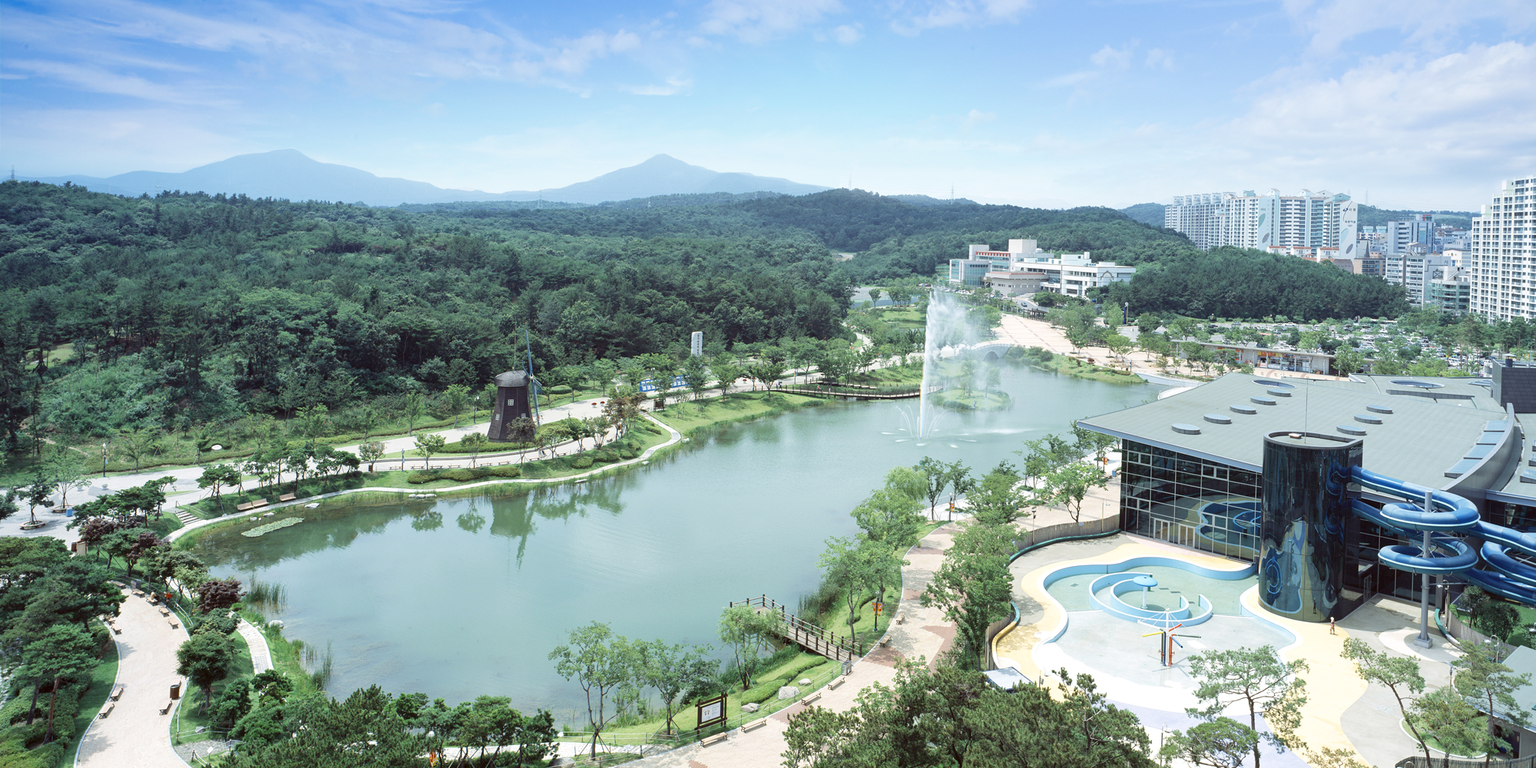
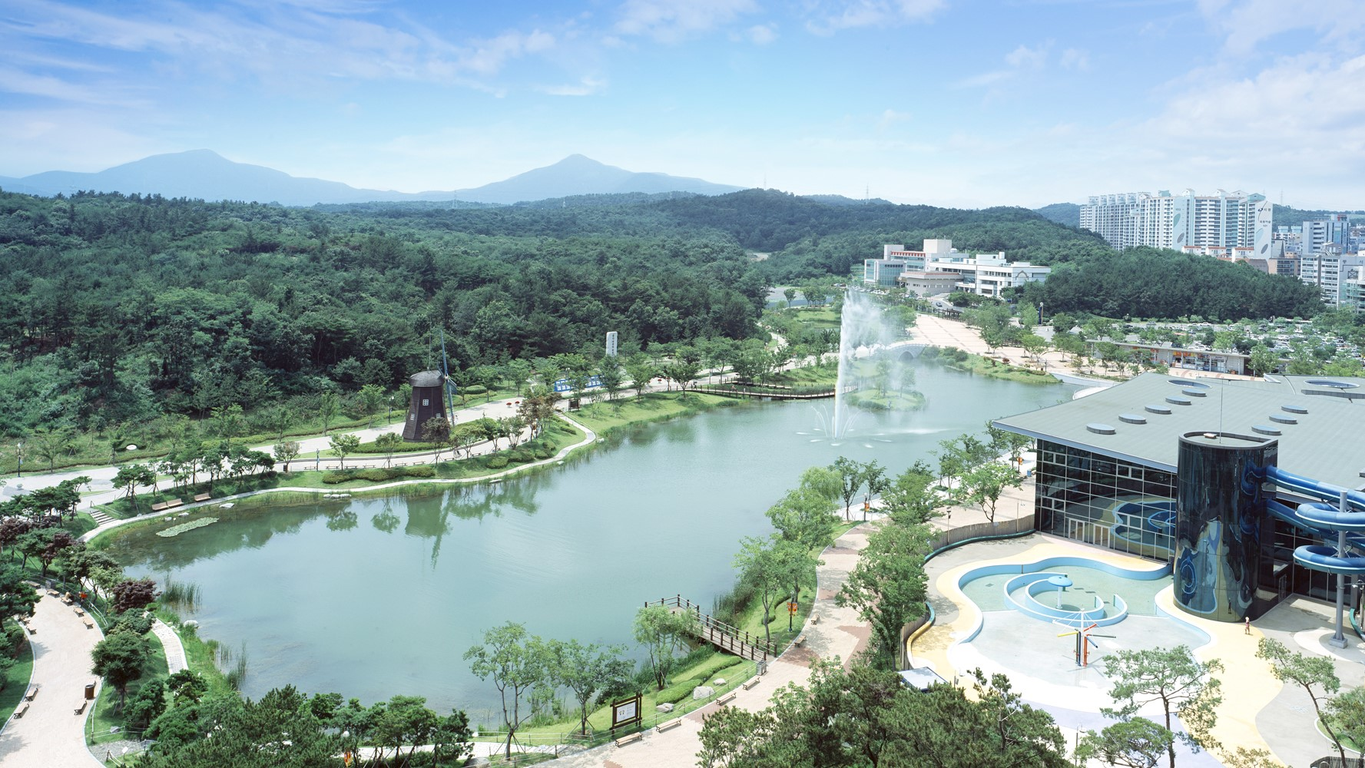
대공원 비주얼부분 수정

diff --git a/js/slide.js b/js/slide.js
@@ -1,66 +1,141 @@
 document.addEventListener("DOMContentLoaded", function(){
-    const windowcon = document.querySelector('.main-visual-box');
+    // const windowcon = document.querySelector('.main-visual-box');
     const slideList = document.querySelector('.main-visual-img-box');  // Slide parent dom
     const slideContents = document.querySelectorAll('.slide_content');  // each slide dom
     const slideBtnNext = document.querySelector('.control-wrap .next'); // next button
     const slideBtnPrev = document.querySelector('.control-wrap .prev'); // prev button
-    // const pagination = document.querySelector('.slide_pagination');
+    const pagination = document.querySelector('.slide_pagination');
     const slideLen = slideContents.length;  // slide length
-
-    // const slideWidth = 400; // slide width
-    // const slideSpeed = 300; // slide speed
-    // const startNum = 0; // initial slide index (0 ~ 4)
+    const slideWidth = 1800; // slide width
+    const slideSpeed = 300; // slide speed
+    const startNum = 0; // initial slide index (0 ~ 4)
       
-    // slideList.style.width = slideWidth * (slideLen + 2) + "px";
+    slideList.style.width = slideWidth * (slideLen + 2) + "px";
     
+    let firstChild = slideList.firstElementChild;
+    let lastChild = slideList.lastElementChild;
+    let clonedFirst = firstChild.cloneNode(true);
+    let clonedLast = lastChild.cloneNode(true);
 
-    // let firstChild = slideList.firstElementChild;
-    // let lastChild = slideList.lastElementChild;
-    // let clonedFirst = firstChild.cloneNode(true);
-    // let clonedLast = lastChild.cloneNode(true);
+    slideList.appendChild(clonedFirst);
+    slideList.insertBefore(clonedLast, slideList.firstElementChild);
 
-    // slideList.appendChild(clonedFirst);
-    // slideList.insertBefore(clonedLast, slideList.firstElementChild);
-
-
-    // let currentindex = 0;
-
-    for(i=0; i < slideLen; i++){
-        console.log("slideContents[i].firstElementChild ===> " + slideContents[i].firstElementChild );
-        slideContents[i].style.left = `${i*100}%`;
+    // Add pagination dynamically
+    let pageChild = '';
+    for (var i = 0; i < slideLen; i++) {
+      pageChild += '<li class="dot';
+      pageChild += (i === startNum) ? ' dot_active' : '';
+      pageChild += '" data-index="' + i + '"><a href="#"></a></li>';
     }
+    pagination.innerHTML = pageChild;
+    const pageDots = document.querySelectorAll('.dot'); // each dot from pagination
 
-    function calcul() {
-        for(i=0; i<slideContents; i++) {
-            if(windowcon.offsetHeight < slideContents[i].offsetHeight){
-                windowcon.style.height = slideContents[i].offsetHeight + "px";
-                windowcon.style.width = slideContents[i].offsetWidth + "px";
-            }
+    slideList.style.transform = "translate3d(-" + (slideWidth * (startNum + 1));
+   
+    let curIndex = startNum; // current slide index (except copied slide)
+    let curSlide = slideContents[curIndex]; // current slide dom
+    curSlide.classList.add('slide_active');
+
+    slideBtnNext.addEventListener('click', function() {
+        if (curIndex <= slideLen - 1) {
+            slideList.style.transition = slideSpeed + "ms";
+            slideList.style.transform = "translate3d(-" + (slideWidth * (curIndex + 2)) + "px, 0px, 0px)";
         }
-        console.log("실행");
-    }
-    calcul();
+        if (curIndex === slideLen - 1) {
+            setTimeout(function() {
+                slideList.style.transition = "0ms";
+                slideList.style.transform = "translate3d(-" + slideWidth + "px, 0px, 0px)";
+            }, slideSpeed);
+            curIndex = -1;
+        }
+        curSlide.classList.remove('slide_active');
+        pageDots[(curIndex === -1) ? slideLen - 1 : curIndex].classList.remove('dot_active');
+        curSlide = slideContents[++curIndex];
+        curSlide.classList.add('slide_active');
+        pageDots[curIndex].classList.add('dot_active');
+    });
+
+    slideBtnPrev.addEventListener('click', function() {
+        if (curIndex >= 0) {
+            slideList.style.transition = slideSpeed + "ms";
+            slideList.style.transform = "translate3d(-" + (slideWidth * curIndex) + "px, 0px, 0px)";
+        }
+        if (curIndex === 0) {
+            setTimeout(function() {
+                slideList.style.transition = "0ms";
+                slideList.style.transform = "translate3d(-" + (slideWidth * slideLen) + "px, 0px, 0px)";
+            }, slideSpeed);
+            curIndex = slideLen;
+        }
+        curSlide.classList.remove('slide_active');
+        pageDots[(curIndex === slideLen) ? 0 : curIndex].classList.remove('dot_active');
+        curSlide = slideContents[--curIndex];
+        curSlide.classList.add('slide_active');
+        pageDots[curIndex].classList.add('dot_active');
+    });
 
     let lele = 0;
     let a = 0;
 
     function moveevent(){
         setInterval(() => {
-            lele += 100;
-            slideList.style.transition ='.3s' ;
-            slideList.style.left ="-" + lele +"%";
-            a++;
-    
-            if(a == slideLen-1){
-                setTimeout(() => {
-                    slideList.style.transition = '0s';
-                    lele = 0;
-                    slideList.style.left = "-" + lele + "%"; 
-                }, 201);
-                a = 0;
-            }
+            // console.log("slideWidth====" + slideWidth);
+            // slideList.style.transition = slideSpeed + "ms";
+            // slideList.style.transform = "translate3d(-" + ("800" * curIndex) + "px, 0px, 0px)";
+            // a++;
+
+            // if(a == slideLen-1){
+            //     setTimeout(() => {
+            //         slideList.style.transition = "0ms";
+            //         lele = 0;
+            //         slideList.style.left = "-" + lele + "%"; 
+            //     }, 201);
+            //     a = 0;
+            // }
         }, 1000);
     }
-    // moveevent();
+    moveevent();
+
+
+    // let currentindex = 0;
+
+    // for(i=0; i < slideLen; i++){
+    //    slideContents[i].style.left = `${i*100}%`;
+    // }
+
+    // function calcul() {
+    //     for(i=0; i<slideLen; i++) {
+    //         // console.log("slideLen ===>" +slideLen)
+    //         // console.log("slideContents[i].offsetHeight ===>" + slideContents[i].offsetHeight)
+    //         if(slideList.offsetHeight < slideContents[i].offsetHeight){
+    //             slideList.style.height = slideContents[i].offsetHeight + "px";
+    //             slideList.style.width = slideContents[i].offsetWidth + "px";
+    //         }
+    //     }
+    //     console.log("실행");
+    // }
+    // calcul();
+
+    // let lele = 0;
+    // let a = 0;
+
+    // function moveevent(){
+    //     setInterval(() => {
+    //         lele += 100;
+    //         slideList.style.transition ='.3s' ;
+    //         slideList.style.left ="-" + lele +"%";
+    //         a++;
+    
+    //         if(a == slideLen-1){
+    //             setTimeout(() => {
+    //                 slideList.style.transition = '0s';
+    //                 lele = 0;
+    //                 slideList.style.left = "-" + lele + "%"; 
+    //             }, 201);
+    //             a = 0;
+    //         }
+    //     }, 1000);
+    // }
+    // // moveevent();
 
 });

diff --git a/css/style.css b/css/style.css
@@ -23,7 +23,7 @@ body{
 .header-top-wrap .top-box:after{content:"";display:block;clear:both;}
 .header-top-wrap .top-box .top-left-box{float:left;}
 .header-top-wrap .top-box .top-left-box ul li{float:left;margin:0 12px 0 0;}
-
+ 
 .header-top-wrap .top-box .top-left-box ul li .utill-icokorea { display: block; margin-top: 3px; width: 36px; height: 24px; background: url(../images/top/korea.png) no-repeat; background-size: 90%;}
 .header-top-wrap .top-box .top-left-box ul li .utill-icotweets { display: block; width: 28px; height: 28px; background: url(../images/top/tweets.png) no-repeat; background-size: 90%;}
 .header-top-wrap .top-box .top-left-box ul li .utill-icofacebook { display: block; width: 28px; height: 28px; background: url(../images/top/facebook.png) no-repeat; background-size: 90%;}
@@ -56,10 +56,10 @@ body{
 /* visual */
 .main-visual-wrap { overflow:hidden;}
 .main-visual-wrap .main-visual-box { position: relative; margin: 0 auto;}
-.main-visual-wrap .main-visual-box .main-visual-img-box { display: flex; height: 500px;} 
+.main-visual-wrap .main-visual-box .main-visual-img-box { display: flex; justify-content: space-between; height: 500px;} 
 /* .main-visual-wrap .main-visual-box .main-visual-img-box img{width: 50%;} */
 
-.main-visual-box .control-wrap{width: 1200px; left: 50%; top: calc(50% - 20px); transform:translateX(-50%);}
+.main-visual-box .control-wrap{width: 1200px;position: absolute;left: 16%;top: calc(50% - 20px);}
 .main-visual-box .control-wrap:after{content:"";display:block;clear:both;}
 
 .main-visual-box .control-wrap .prev {float: left; cursor: pointer; width: 70px; height: 70px; border-radius: 40px; background: #222;padding: 0; opacity: 0.7; transform: rotate(90deg);}
@@ -67,19 +67,30 @@ body{
 .main-visual-box .control-wrap .prev:hover {opacity: 1;}
 .main-visual-box .control-wrap .next:hover {opacity: 1;}
 
-.main-visual-img-box > div { float: left;} 
-/* .main-visual-img-box .item {} */
+.main-visual-img-box > div { float: left; width: 100%;height: 100%; text-align: center;} 
+/* .main-visual-img-box > div {margin-right: 3px;} */
+.item1 {margin-top: -17%;}
+.item2 {margin-top: -13%; margin-left: -7%;}
+.item3 {margin-left: -17%; width: 95%;}
 
+/* .item1 {width: 100%;}
+.item2 {width: 100%;}
+.item3 {width: 0%;} */
 
-.slide01 { width: 2000px; background: #fbdb65;}
-.slide02 { width: 2000px; background: #9fd6c2;}
-.slide03 { width: 2000px; background: #abe2f7;}
-
-.arrow_box > div { position: relative; width: 100%; height: 25px; }
 .arrow_box > div {position: relative;width: 100%;height: 70px;}
 .arrow_box > div > span {position: absolute;top: 38px;width: 35px;height: 2px;background: #fff;border-radius: 50px;display: block;}
 .arrow_box > div > span:before { content: " "; display: block; width: 100%; height: 100%; border-radius:50px;}
 .arrow_box > div > span:first-child{transform: rotate(-45deg);left: 28px;}
 .arrow_box > div > span:last-child {transform: rotate(45deg);left: 5px;}
+
+/* .slide01 {width: 100%; height: 100%; background: url(/images/main/main_visual_img01.JPG) no-repeat;}
+.slide02 {width: 100%; height: 100%;background: url(/images/main/main_visual_img02.JPG) no-repeat;}
+.slide03 {width: 100%; height: 100%;background: url(/images/main/main_visual_img03.JPG) no-repeat;} */
+
+.slide_pagination { position: absolute; left: 50%; bottom: 0; list-style: none; margin: 0; padding: 0; transform: translateX(-50%); }
+.slide_pagination .dot { display: inline-block; width: 15px; height: 15px; margin: 0 5px; overflow: hidden; background: #ddd; border-radius: 50%; transition: 0.3s; }
+.slide_pagination .dot.dot_active { background: #333; }
+.slide_pagination .dot a { display: block; width: 100%; height: 100%; }
+
 
 

diff --git a/imdex.html b/imdex.html
@@ -85,13 +85,13 @@
                 <div class="main-visual-box">
                     <div class="main-visual-img-box">
                         <div class="slide_content slide01">
-                            <!-- <img class="item" src="images/main/main_visual_img01.jpg"> -->
-                        </div>
+                            <img class="item1" src="images/main/main_visual_img01.jpg">
+                        </div> 
                         <div class="slide_content slide02">
-                            <!-- <img class="item" src="images/main/main_visual_img01.jpg"> -->
+                            <img class="item2" src="images/main/main_visual_img02.jpg"> 
                         </div>
                         <div class="slide_content slide03">
-                            <!-- <img class="item" src="images/main/main_visual_img01.jpg"> -->
+                            <img class="item3" src="images/main/main_visual_img03.jpg"> 
                         </div>
                     </div>
                     <div class="control-wrap">
@@ -108,6 +108,12 @@
                             </div>
                         </div>
                     </div>
+                    <ul class="slide_pagination">
+                        <!-- <li class="dot"></li>
+                        <li class="dot"></li>
+                        <li class="dot"></li>
+                        <li class="dot"></li> -->
+                    </ul>
                 </div>
             </section>
             <section></section>
